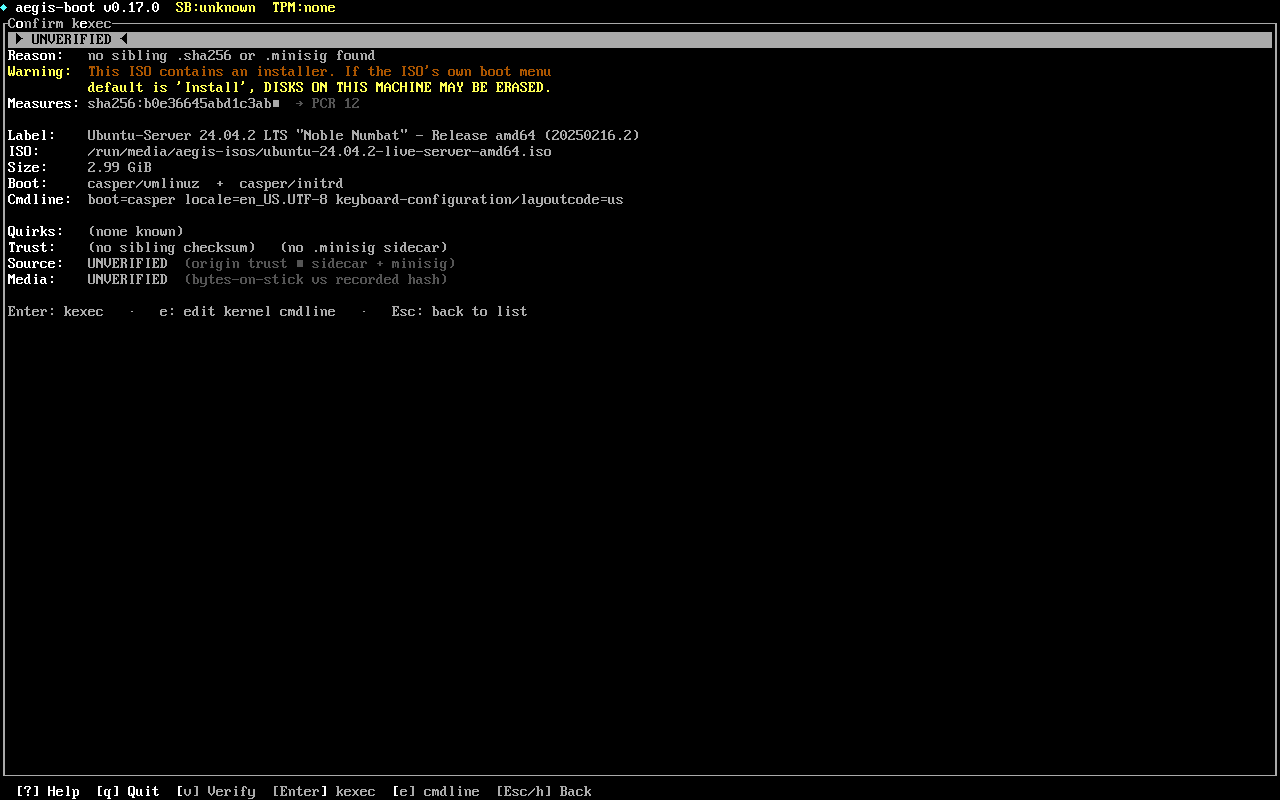
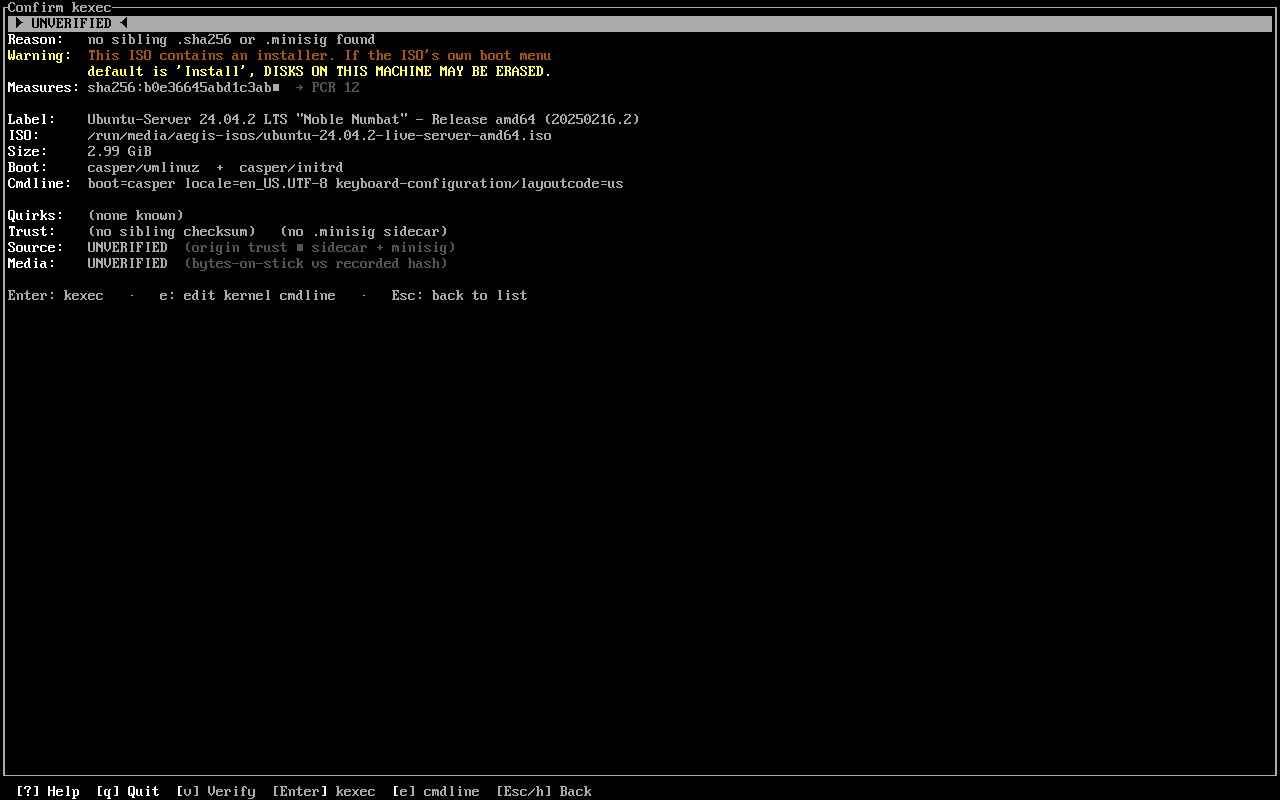
feat(rescue-tui): drop top header row, anchor session state at info pane bottom (TUI Phase C) (#642)
The Phase A+B (#641) chrome cleanup left a single-row header at the
top carrying version + Secure Boot state + TPM state. Operator
feedback: that row was still session-constant chrome eating
vertical space the body could use, and the right info pane had
empty space below the metadata it could absorb that info into.

THIS PR

Drops the dedicated top header row entirely. Version + SB + TPM
migrate to a 1-row session footer rendered at the bottom of the info
pane, color-coded per state (Aurora theme — APCA-compliant).

Net effect:
  - Body claims one more row at the top of the screen — verdict
    banner is now flush against the info bar.
  - Empty vertical space at the bottom of the info pane is no longer
    blank — it carries the session-constant state operators reach
    for when something looks off ("is SB really enforcing here?").
  - Top of the screen is now just the chrome the operator actively
    interacts with (filter banner / sort hint / Tab focus hint).

Confirm screen is unchanged — it's full-width single-screen and
doesn't need the session footer.

Refresh of all 7 docs/screenshots/*.png.

Changed region(s): [[0.0, 0.0, 1.0, 0.4062]]

diff --git a/crates/rescue-tui/src/render.rs b/crates/rescue-tui/src/render.rs
@@ -33,17 +33,22 @@ use crate::verdict::TrustVerdict;
 /// ```
 pub fn draw(frame: &mut Frame<'_>, state: &AppState) {
     let area = frame.area();
+    // Phase C layout: drop the dedicated header row entirely. Version
+    // + SB state + TPM state migrate to a session footer rendered at
+    // the bottom of the info pane (see `info_pane_iso_lines`). The
+    // top row was carrying constant session state — the body needs
+    // every row it can get on 80×25 serial / OVMF consoles. The
+    // status bar at the bottom is still the canonical keybinding
+    // reference; only the redundant chrome at the top goes.
     let chrome = Layout::default()
         .direction(Direction::Vertical)
         .constraints([
-            Constraint::Length(1), // header banner
             Constraint::Min(3),    // body
-            Constraint::Length(1), // footer
+            Constraint::Length(1), // footer (keybinding hint bar)
         ])
         .split(area);
-    let (header_area, body_area, footer_area) = (chrome[0], chrome[1], chrome[2]);
+    let (body_area, footer_area) = (chrome[0], chrome[1]);
 
-    draw_header(frame, header_area, state);
     draw_body(frame, body_area, state);
     draw_footer(frame, footer_area, state);
 
@@ -263,63 +268,6 @@ fn draw_verifying(
         .wrap(Wrap { trim: false }),
         note_area,
     );
-}
-
-fn draw_header(frame: &mut Frame<'_>, area: Rect, state: &AppState) {
-    let version = env!("CARGO_PKG_VERSION");
-    let sb_color = match state.secure_boot {
-        SecureBootStatus::Enforcing => state.theme.success,
-        SecureBootStatus::Disabled => state.theme.error,
-        SecureBootStatus::Unknown => state.theme.warning,
-    };
-    // Design-review fix #3: TPM colour must reflect TPM state, not be
-    // hardcoded to green. A green "TPM:none" lies to the operator.
-    let tpm_color = match state.tpm {
-        crate::state::TpmStatus::Available => state.theme.success,
-        crate::state::TpmStatus::Absent => state.theme.warning,
-    };
-    // Brand primary (steel blue) for the shield mark. Uses the aegis
-    // brand colour directly — renders across every theme.
-    let brand = ratatui::style::Color::Rgb(0x3B, 0x82, 0xF6);
-
-    // Phase A layout cleanup: the marketing tagline ("Signed boot.
-    // Any ISO. Your keys.") was zero-functional during a rescue boot
-    // and ate ~30 cols of header space; dropped here. The version +
-    // SB + TPM trio remains — those are operator-actionable
-    // ("UNKNOWN SB? My firmware lied about Secure Boot") and survive
-    // through every theme.
-    //
-    // Width-degradation order (TPM is the next to go on serial-narrow
-    // consoles, then SB, then mark+name+version always survive):
-    //   ≥70 cols → ◆ aegis-boot vX.Y.Z   SB:state   TPM:state
-    //   ≥50 cols → ◆ aegis-boot vX.Y.Z   SB:state
-    //   <50 cols → ◆ aegis-boot vX.Y.Z
-    let mut spans = vec![
-        Span::styled(
-            "◆ ",
-            Style::default().fg(brand).add_modifier(Modifier::BOLD),
-        ),
-        Span::styled(
-            format!("aegis-boot v{version}"),
-            Style::default().add_modifier(Modifier::BOLD),
-        ),
-    ];
-    if area.width >= 50 {
-        spans.push(Span::raw("  "));
-        spans.push(Span::styled(
-            state.secure_boot.summary(),
-            Style::default().fg(sb_color),
-        ));
-    }
-    if area.width >= 70 {
-        spans.push(Span::raw("  "));
-        spans.push(Span::styled(
-            state.tpm.summary(),
-            Style::default().fg(tpm_color),
-        ));
-    }
-    let header = Line::from(spans);
-    frame.render_widget(Paragraph::new(header), area);
 }
 
 fn draw_footer(frame: &mut Frame<'_>, area: Rect, state: &AppState) {
@@ -710,6 +658,61 @@ fn split_list_chrome(_frame: &mut Frame<'_>, area: Rect, _state: &AppState) -> (
     (chunks[0], chunks[1])
 }
 
+/// Adaptive list/info split for the body area.
+///
+/// Below 100 cols the layout flips vertical (list on top, info pane
+/// below) — the 40/60 horizontal split chops kernel cmdlines on
+/// serial/OVMF and centers the verdict banner over a tiny pane. At
+/// or above 100 cols the layout stays horizontal but the list pane
+/// width is `min(longest_label + 12, 40% of body)`; short ISO sets
+/// shrink the list pane so the info pane absorbs the slack for
+/// sha256, cmdline, and signer chain.
+///
+/// Extracted from [`draw_list`] to keep that function under the
+/// workspace `clippy::too_many_lines` gate.
+fn adaptive_list_split(
+    body_area: Rect,
+    entries: &[crate::state::ViewEntry],
+    state: &AppState,
+) -> (Rect, Rect) {
+    use crate::state::ViewEntry;
+    if body_area.width < 100 {
+        let chunks = Layout::default()
+            .direction(Direction::Vertical)
+            .constraints([Constraint::Percentage(40), Constraint::Percentage(60)])
+            .split(body_area);
+        return (chunks[0], chunks[1]);
+    }
+    let longest_label = entries
+        .iter()
+        .map(|e| match e {
+            ViewEntry::Iso(i) => state
+                .isos
+                .get(*i)
+                .map_or(0, |iso| iso.label.chars().count()),
+            ViewEntry::FailedIso(i) => state.failed_isos.get(*i).map_or(0, |f| {
+                f.iso_path
+                    .file_name()
+                    .map_or(0, |n| n.to_string_lossy().chars().count())
+            }),
+            ViewEntry::RescueShell => "rescue shell (busybox) — dropped from rescue-tui"
+                .chars()
+                .count(),
+        })
+        .max()
+        .unwrap_or(20);
+    // +12 cols for status glyph + distro tag + borders. 40% cap so
+    // the info pane never starves on long-label decks.
+    let list_cols_fit = u16::try_from(longest_label.saturating_add(12)).unwrap_or(u16::MAX);
+    let list_cols_max = body_area.width * 40 / 100;
+    let list_cols = list_cols_fit.min(list_cols_max).max(20);
+    let chunks = Layout::default()
+        .direction(Direction::Horizontal)
+        .constraints([Constraint::Length(list_cols), Constraint::Min(40)])
+        .split(body_area);
+    (chunks[0], chunks[1])
+}
+
 /// Render the top-of-list-chrome info line (filter banner while
 /// editing, else the committed sort/filter hint). Extracted from
 /// [`draw_list`] so that function stays under the clippy
@@ -780,46 +783,7 @@ fn draw_list(frame: &mut Frame<'_>, area: Rect, state: &AppState, selected: usiz
     //                signer chain.
     let (info_line_area, body_area) = split_list_chrome(frame, area, state);
     let entries = state.visible_entries();
-    let (list_area, info_pane_area) = if body_area.width < 100 {
-        // Compact / vertical layout for narrow terminals.
-        let chunks = Layout::default()
-            .direction(Direction::Vertical)
-            // Cap list at min(8 rows + chrome, 50% of body) so info
-            // pane keeps half the screen even with a long list.
-            .constraints([Constraint::Percentage(40), Constraint::Percentage(60)])
-            .split(body_area);
-        (chunks[0], chunks[1])
-    } else {
-        // Wide / horizontal layout with adaptive list width.
-        let longest_label = entries
-            .iter()
-            .map(|e| match e {
-                ViewEntry::Iso(i) => state
-                    .isos
-                    .get(*i)
-                    .map_or(0, |iso| iso.label.chars().count()),
-                ViewEntry::FailedIso(i) => state.failed_isos.get(*i).map_or(0, |f| {
-                    f.iso_path
-                        .file_name()
-                        .map_or(0, |n| n.to_string_lossy().chars().count())
-                }),
-                ViewEntry::RescueShell => "rescue shell (busybox) — dropped from rescue-tui"
-                    .chars()
-                    .count(),
-            })
-            .max()
-            .unwrap_or(20);
-        // Add ~12 cols for the leading status glyph, distro tag, and
-        // borders. Cap at 40% so the info pane never starves.
-        let list_cols_fit = u16::try_from(longest_label.saturating_add(12)).unwrap_or(u16::MAX);
-        let list_cols_max = body_area.width * 40 / 100;
-        let list_cols = list_cols_fit.min(list_cols_max).max(20);
-        let chunks = Layout::default()
-            .direction(Direction::Horizontal)
-            .constraints([Constraint::Length(list_cols), Constraint::Min(40)])
-            .split(body_area);
-        (chunks[0], chunks[1])
-    };
+    let (list_area, info_pane_area) = adaptive_list_split(body_area, &entries, state);
 
     render_list_info_line(frame, info_line_area, state);
 
@@ -886,14 +850,59 @@ fn draw_list(frame: &mut Frame<'_>, area: Rect, state: &AppState, selected: usiz
     // Info pane — tier-aware summary of the currently-selected row.
     // This is the #458 scaffold: verdict + filename + one-line reason.
     // #459 extends with the full per-tier metadata (sha256, signer,
-    // kernel/initrd, cmdline, quirks, …).
+    // kernel/initrd, cmdline, quirks, …). Phase C: anchor a 1-row
+    // session-state footer at the bottom of the info pane area —
+    // version + Secure Boot + TPM state migrated here from the
+    // dropped top header so the body has more vertical room.
+    let info_chunks = Layout::default()
+        .direction(Direction::Vertical)
+        .constraints([Constraint::Min(3), Constraint::Length(1)])
+        .split(info_pane_area);
+    let (info_content_area, session_footer_area) = (info_chunks[0], info_chunks[1]);
     draw_info_pane(
         frame,
-        info_pane_area,
+        info_content_area,
         state,
         selected,
         state.pane == Pane::Info,
     );
+    draw_session_footer(frame, session_footer_area, state);
+}
+
+/// One-row session-state footer at the bottom of the info pane.
+/// Holds the constants that used to live in the dropped top header
+/// row: version, Secure Boot state, TPM state. Color-coded per
+/// [`SecureBootStatus`] / [`crate::state::TpmStatus`] so the operator
+/// can spot a `SB:disabled` or `TPM:none` at a glance without parsing
+/// the line.
+/// (Phase C — fills empty vertical space + reclaims the header row.)
+fn draw_session_footer(frame: &mut Frame<'_>, area: Rect, state: &AppState) {
+    let version = env!("CARGO_PKG_VERSION");
+    let sb_color = match state.secure_boot {
+        SecureBootStatus::Enforcing => state.theme.success,
+        SecureBootStatus::Disabled => state.theme.error,
+        SecureBootStatus::Unknown => state.theme.warning,
+    };
+    let tpm_color = match state.tpm {
+        crate::state::TpmStatus::Available => state.theme.success,
+        crate::state::TpmStatus::Absent => state.theme.warning,
+    };
+    let brand = ratatui::style::Color::Rgb(0x3B, 0x82, 0xF6);
+    let line = Line::from(vec![
+        Span::styled(
+            " ◆ ",
+            Style::default().fg(brand).add_modifier(Modifier::BOLD),
+        ),
+        Span::styled(
+            format!("aegis-boot v{version}"),
+            Style::default().add_modifier(Modifier::DIM),
+        ),
+        Span::raw("   "),
+        Span::styled(state.secure_boot.summary(), Style::default().fg(sb_color)),
+        Span::raw("   "),
+        Span::styled(state.tpm.summary(), Style::default().fg(tpm_color)),
+    ]);
+    frame.render_widget(Paragraph::new(line), area);
 }
 
 /// Border style for a pane based on focus state. Focused panes use
